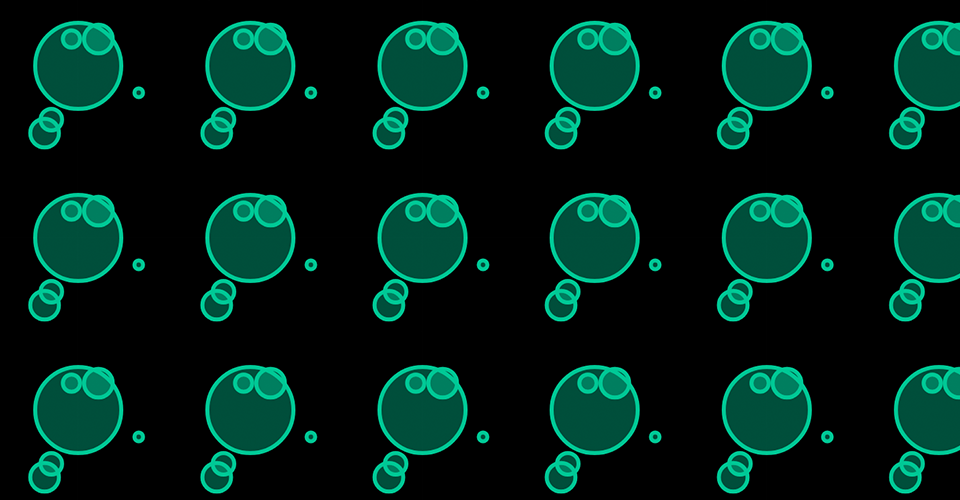
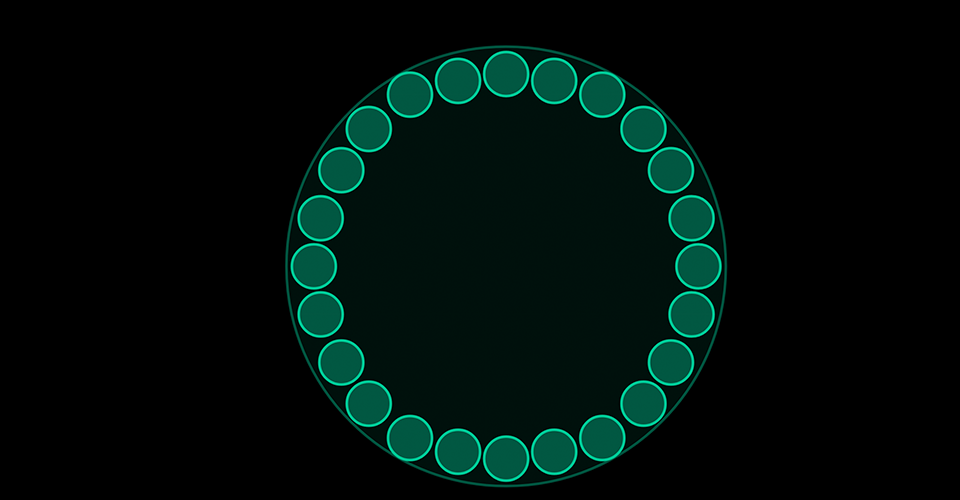
progress on zooming functions

diff --git a/drawgrid.js b/drawgrid.js
@@ -25,10 +25,47 @@ var tourPath = [
   [4, 420, 400]
 ]
 
+function getOffsetPoint(p5, x, y, z, noiseScale) {
+  let offsetX = getRandomValue(p5, x, y, z, "offsetX", -max_movement, max_movement, noiseScale);
+  let offsetY = getRandomValue(p5, x, y, z, "offsetY", -max_movement, max_movement, noiseScale);
+  return [x+offsetX, y+offsetY]
+}
 
 
+//function drawCells(p5, x1, x2, y1, y2, pos_x, pos_y, rad1) {
+//  const sqrt2 = 1.4142/2;
+//  let offsets = [
+//    [sqrt2, sqrt2],
+//    [-sqrt2, sqrt2],
+//    [-sqrt2, -sqrt2],
+//    [sqrt2, -sqrt2]
+//  ]
+//  let pixel_posx1 = p5.map(pos_x, x1, x2, 0, 256);
+//  let pixel_posx2 = p5.map(pos_x+rad1, x1, x2, 0, 256);
+//  let pixel_radius = pixel_posx2 - pixel_posx1;
+//  p5.ellipse(pixel_posx1, pixel_posx2, pixel_radius);
+//  //for(let i=0; i<offsets.length; i++) {
+//  //  let offset = offsets[i];
+//  //  let pixel_x = p5.map(pos_x+0.5*rad1*offset[0], x1, x2, 0, 256);
+//  //  let pixel_y = p5.map(pos_y+0.5*rad1*offset[1], y1, y2, 0, 256);
+//  //  p5.ellipse(pixel_x, pixel_y, pixel_radius);    
+//  //}
+//}
 
 
+function fillCell(p5,x1, x2, y1, y2,xpos,ypos,radius){
+	let fillNumber = 3;// arbirtary
+	
+	let newX = p5.map(xpos, x1, x2, 0, 256);
+	let newY = p5.map(ypos, y1, y2, 0, 256);	
+	//newX = xpos+radius/4;
+	//newY = Math.random(ypos-radius,ypos+radius);
+	newY = ypos;
+	newRad = radius;
+	for(let i = 0; i<fillNumber;i++){
+		p5.ellipse(newX,newY,newRad);
+	}
+}
 
 function drawGrid(p5, x1, x2, y1, y2, z, zoom) {
   // temporary variables used for object placement
@@ -52,46 +89,176 @@ function drawGrid(p5, x1, x2, y1, y2, z, zoom) {
 
  	centerx = p5.map(512, x1, x2, 0, 256);
   	centery = p5.map(512, y1, y2, 0, 256);
+	
+	  	for(let x=min_x; x<max_x; x+=grid_size) 
+	  	{
 
-  	for(let x=min_x; x<max_x; x+=grid_size) 
-  	{
+	    	for(let y=min_y; y<max_y; y+=grid_size) 
+	    	{
 
-    	for(let y=min_y; y<max_y; y+=grid_size) 
-    	{
-    			p5.stroke(0, 200, 150);
-			  	p5.strokeWeight(3);
-			  	p5.fill(0, 200, 150,100);
+	    		let shift_point = getOffsetPoint(p5, x, y, z, 100);
+				let x_pos = p5.map(shift_point[0], x1, x2, 0, 256);
+	      		let y_pos = p5.map(shift_point[1], y1, y2, 0, 256);	
 
-    		let shift_point = getOffsetPoint(p5, x, y, z, 100);
-			let x_pos = p5.map(shift_point[0], x1, x2, 0, 256);
-      		let y_pos = p5.map(shift_point[1], y1, y2, 0, 256);				
-				p5.ellipse(x_pos, y_pos, curCellRadius);
+	    			
+				  	if(zoom <3)
+				  	{
 
-				x_pos = p5.map(x-20, x1, x2, 0, 256);
-      			y_pos = p5.map(y+40, y1, y2, 0, 256);
-				p5.ellipse(x_pos, y_pos, curCellRadius/4);
+					  	p5.stroke(0, 200, 150);
+					  	p5.strokeWeight(3);
+					  	p5.fill(0, 200, 150,100);
+		    					
+						p5.ellipse(x_pos, y_pos, curCellRadius);
 
-				x_pos = p5.map(x+45, x1, x2, 0, 256);
-      			y_pos = p5.map(y+20, y1, y2, 0, 256);
-				p5.ellipse(x_pos, y_pos, curCellRadius/10);
+						x_pos = p5.map(x-20, x1, x2, 0, 256);
+		      			y_pos = p5.map(y+40, y1, y2, 0, 256);
+						p5.ellipse(x_pos, y_pos, curCellRadius/4);
 
-				x_pos = p5.map(x-5, x1, x2, 0, 256);
-      			y_pos = p5.map(y-20, y1, y2, 0, 256);  
-				p5.ellipse(x_pos, y_pos, curCellRadius/5);
+						x_pos = p5.map(x+45, x1, x2, 0, 256);
+		      			y_pos = p5.map(y+20, y1, y2, 0, 256);
+						p5.ellipse(x_pos, y_pos, curCellRadius/10);
 
-				x_pos = p5.map(x+15, x1, x2, 0, 256);
-      			y_pos = p5.map(y-20, y1, y2, 0, 256); 	
-				p5.ellipse(x_pos, y_pos, curCellRadius/3);
+						x_pos = p5.map(x-5, x1, x2, 0, 256);
+		      			y_pos = p5.map(y-20, y1, y2, 0, 256);  
+						p5.ellipse(x_pos, y_pos, curCellRadius/5);
 
-				x_pos = p5.map(x-25, x1, x2, 0, 256);
-      			y_pos = p5.map(y+50, y1, y2, 0, 256); 	
-				p5.ellipse(x_pos, y_pos, curCellRadius/3); 
+						x_pos = p5.map(x+15, x1, x2, 0, 256);
+		      			y_pos = p5.map(y-20, y1, y2, 0, 256); 	
+						p5.ellipse(x_pos, y_pos, curCellRadius/3);
+
+						x_pos = p5.map(x-25, x1, x2, 0, 256);
+		      			y_pos = p5.map(y+50, y1, y2, 0, 256); 	
+						p5.ellipse(x_pos, y_pos, curCellRadius/3); 
 
 
-    	}
+	    			}
 
-  	}
+	    			if(zoom >=3)
+	    			{
+	    				p5.stroke(0, 200, 150,100);
+					  	p5.strokeWeight(3);
+					  	p5.fill(0, 200, 150,20);
+	    				p5.ellipse(x_pos, y_pos, curCellRadius);
 
+	    				
+							p5.stroke(0, 200, 150);
+							p5.fill(0, 200, 150,100);
+					  		p5.strokeWeight(3);
+							x_pos = p5.map(shift_point[0], x1, x2, 0, 256);
+		      				y_pos = p5.map(shift_point[1], y1, y2, 0, 256); 	
+							//p5.ellipse(x_pos, y_pos, curCellRadius);
+
+							//bottom center
+							x_pos = p5.map(shift_point[0], x1, x2, 0, 256);
+		      				y_pos = p5.map(shift_point[1]+28, y1, y2, 0, 256); 	
+							p5.ellipse(x_pos, y_pos, curCellRadius/10); 
+
+							//top
+							x_pos = p5.map(shift_point[0], x1, x2, 0, 256);
+		      				y_pos = p5.map(shift_point[1]-28, y1, y2, 0, 256); 	
+							p5.ellipse(x_pos, y_pos, curCellRadius/10); 
+							//right
+							x_pos = p5.map(shift_point[0]+28, x1, x2, 0, 256);
+		      				y_pos = p5.map(shift_point[1], y1, y2, 0, 256); 	
+							p5.ellipse(x_pos, y_pos, curCellRadius/10);
+							//left
+							x_pos = p5.map(shift_point[0]-28, x1, x2, 0, 256);
+		      				y_pos = p5.map(shift_point[1], y1, y2, 0, 256); 	
+							p5.ellipse(x_pos, y_pos, curCellRadius/10);
+
+							//left up
+
+							x_pos = p5.map(shift_point[0]-27, x1, x2, 0, 256);
+		      				y_pos = p5.map(shift_point[1]-7, y1, y2, 0, 256); 	
+							p5.ellipse(x_pos, y_pos, curCellRadius/10);
+
+							x_pos = p5.map(shift_point[0]-24, x1, x2, 0, 256);
+		      				y_pos = p5.map(shift_point[1]-14, y1, y2, 0, 256); 	
+							p5.ellipse(x_pos, y_pos, curCellRadius/10);
+
+							x_pos = p5.map(shift_point[0]-20, x1, x2, 0, 256);
+		      				y_pos = p5.map(shift_point[1]-20, y1, y2, 0, 256); 	
+							p5.ellipse(x_pos, y_pos, curCellRadius/10);
+
+							x_pos = p5.map(shift_point[0]-14, x1, x2, 0, 256);
+		      				y_pos = p5.map(shift_point[1]-25, y1, y2, 0, 256); 	
+							p5.ellipse(x_pos, y_pos, curCellRadius/10);
+
+							x_pos = p5.map(shift_point[0]-7, x1, x2, 0, 256);
+		      				y_pos = p5.map(shift_point[1]-27, y1, y2, 0, 256); 	
+							p5.ellipse(x_pos, y_pos, curCellRadius/10);
+
+							//right up
+
+							x_pos = p5.map(shift_point[0]+27, x1, x2, 0, 256);
+		      				y_pos = p5.map(shift_point[1]-7, y1, y2, 0, 256); 	
+							p5.ellipse(x_pos, y_pos, curCellRadius/10);
+
+							x_pos = p5.map(shift_point[0]+24, x1, x2, 0, 256);
+		      				y_pos = p5.map(shift_point[1]-14, y1, y2, 0, 256); 	
+							p5.ellipse(x_pos, y_pos, curCellRadius/10);
+
+							x_pos = p5.map(shift_point[0]+20, x1, x2, 0, 256);
+		      				y_pos = p5.map(shift_point[1]-20, y1, y2, 0, 256); 	
+							p5.ellipse(x_pos, y_pos, curCellRadius/10);
+
+							x_pos = p5.map(shift_point[0]+14, x1, x2, 0, 256);
+		      				y_pos = p5.map(shift_point[1]-25, y1, y2, 0, 256); 	
+							p5.ellipse(x_pos, y_pos, curCellRadius/10);
+
+							x_pos = p5.map(shift_point[0]+7, x1, x2, 0, 256);
+		      				y_pos = p5.map(shift_point[1]-27, y1, y2, 0, 256); 	
+							p5.ellipse(x_pos, y_pos, curCellRadius/10);
+
+							//left down
+
+							x_pos = p5.map(shift_point[0]-27, x1, x2, 0, 256);
+		      				y_pos = p5.map(shift_point[1]+7, y1, y2, 0, 256); 	
+							p5.ellipse(x_pos, y_pos, curCellRadius/10);
+
+							x_pos = p5.map(shift_point[0]-24, x1, x2, 0, 256);
+		      				y_pos = p5.map(shift_point[1]+14, y1, y2, 0, 256); 	
+							p5.ellipse(x_pos, y_pos, curCellRadius/10);
+
+							x_pos = p5.map(shift_point[0]-20, x1, x2, 0, 256);
+		      				y_pos = p5.map(shift_point[1]+20, y1, y2, 0, 256); 	
+							p5.ellipse(x_pos, y_pos, curCellRadius/10);
+
+							x_pos = p5.map(shift_point[0]-14, x1, x2, 0, 256);
+		      				y_pos = p5.map(shift_point[1]+25, y1, y2, 0, 256); 	
+							p5.ellipse(x_pos, y_pos, curCellRadius/10);
+
+							x_pos = p5.map(shift_point[0]-7, x1, x2, 0, 256);
+		      				y_pos = p5.map(shift_point[1]+27, y1, y2, 0, 256); 	
+							p5.ellipse(x_pos, y_pos, curCellRadius/10);
+
+							//right down\
+
+							x_pos = p5.map(shift_point[0]+27, x1, x2, 0, 256);
+		      				y_pos = p5.map(shift_point[1]+7, y1, y2, 0, 256); 	
+							p5.ellipse(x_pos, y_pos, curCellRadius/10);
+
+							x_pos = p5.map(shift_point[0]+24, x1, x2, 0, 256);
+		      				y_pos = p5.map(shift_point[1]+14, y1, y2, 0, 256); 	
+							p5.ellipse(x_pos, y_pos, curCellRadius/10);
+
+							x_pos = p5.map(shift_point[0]+20, x1, x2, 0, 256);
+		      				y_pos = p5.map(shift_point[1]+20, y1, y2, 0, 256); 	
+							p5.ellipse(x_pos, y_pos, curCellRadius/10);
+
+							x_pos = p5.map(shift_point[0]+14, x1, x2, 0, 256);
+		      				y_pos = p5.map(shift_point[1]+25, y1, y2, 0, 256); 	
+							p5.ellipse(x_pos, y_pos, curCellRadius/10);
+
+							x_pos = p5.map(shift_point[0]+7, x1, x2, 0, 256);
+		      				y_pos = p5.map(shift_point[1]+27, y1, y2, 0, 256); 	
+							p5.ellipse(x_pos, y_pos, curCellRadius/10);
+
+							
+	    			}
+
+		  	}
+		}
 
 
 

diff --git a/README.md b/README.md
@@ -11,5 +11,7 @@ I want to make more detail appear at higher zooms for instance make certain stru
 
 I have worked my idea into a tiling pattern which is nice as the design now spreads to infinity. the next step is to add layers to the design then implement noise in the distribution to appear more natural, then i want to have subtle animation in the parts to simulate floating around like cells do BOOM! THERES HOPE FOR THE FUTURE.
 
+first step in zoom done, got it scaling and zooming and now when close enough the inter membrane wall of the cell is made clear. Next step add for structure to cell like phytoplasm and mitochondria. The final zoom will show somthing like chromosomes or dna
+
 Also update both images keeping their original sizes:
 preview.png (960x500) and thumbnail.png (230x120).
